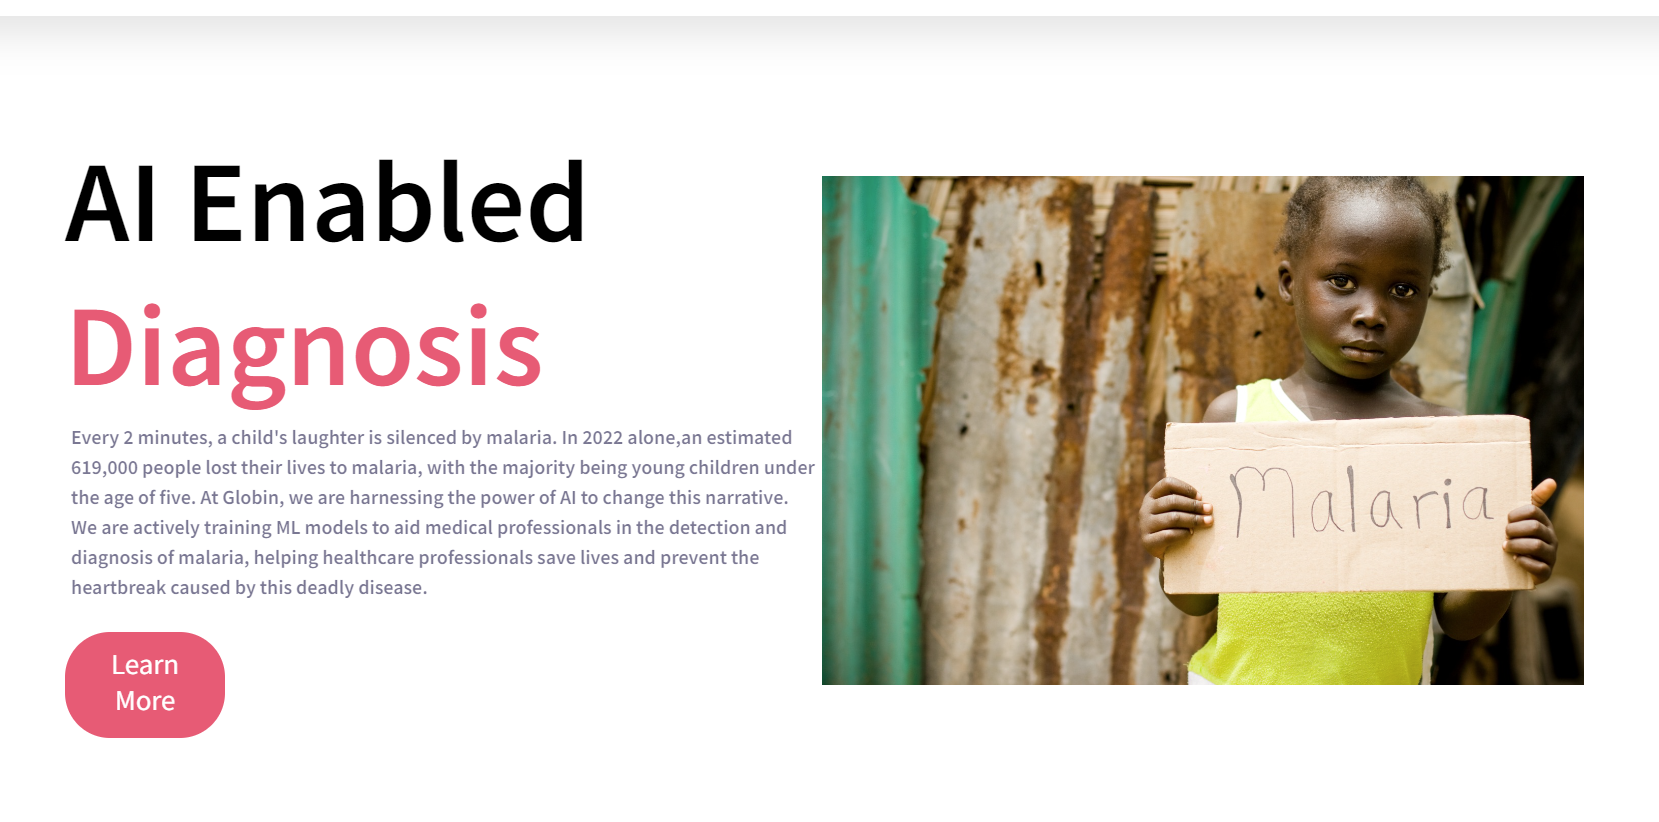
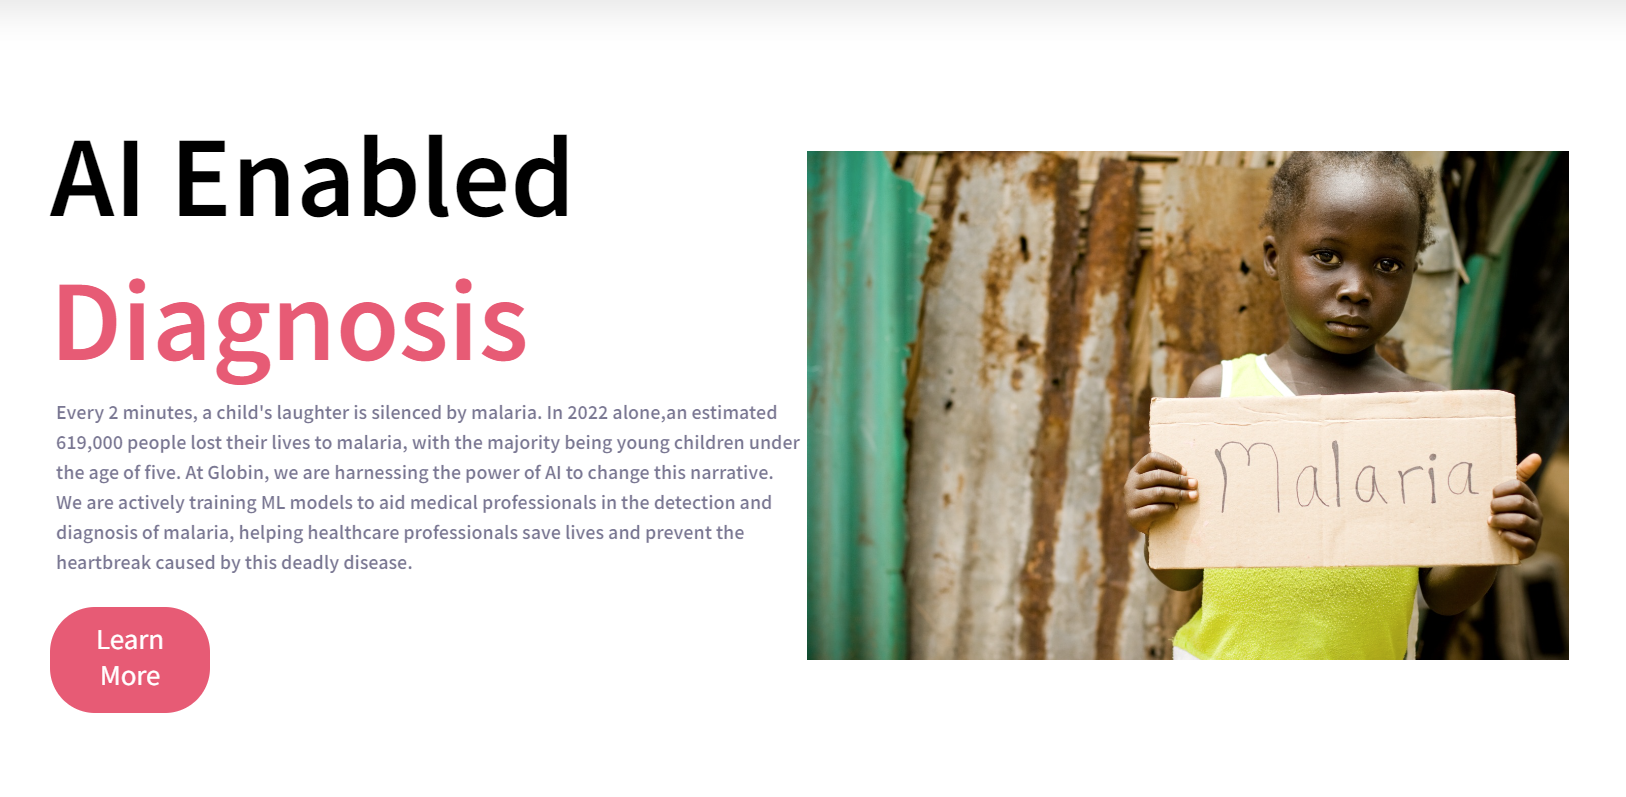
cropped version

diff --git a/index.html b/index.html
@@ -389,7 +389,7 @@
       <div class="user-projects">
         <div class="images-right">
           <picture>
-            <img alt="Object Classification" src="./assets/img/jpg/use.jpeg" />
+            <img alt="Object Classification" src="./assets/img/jpg/lobin.png" />
           </picture>
         </div>
         <div class="contents" style="text-align: center">
